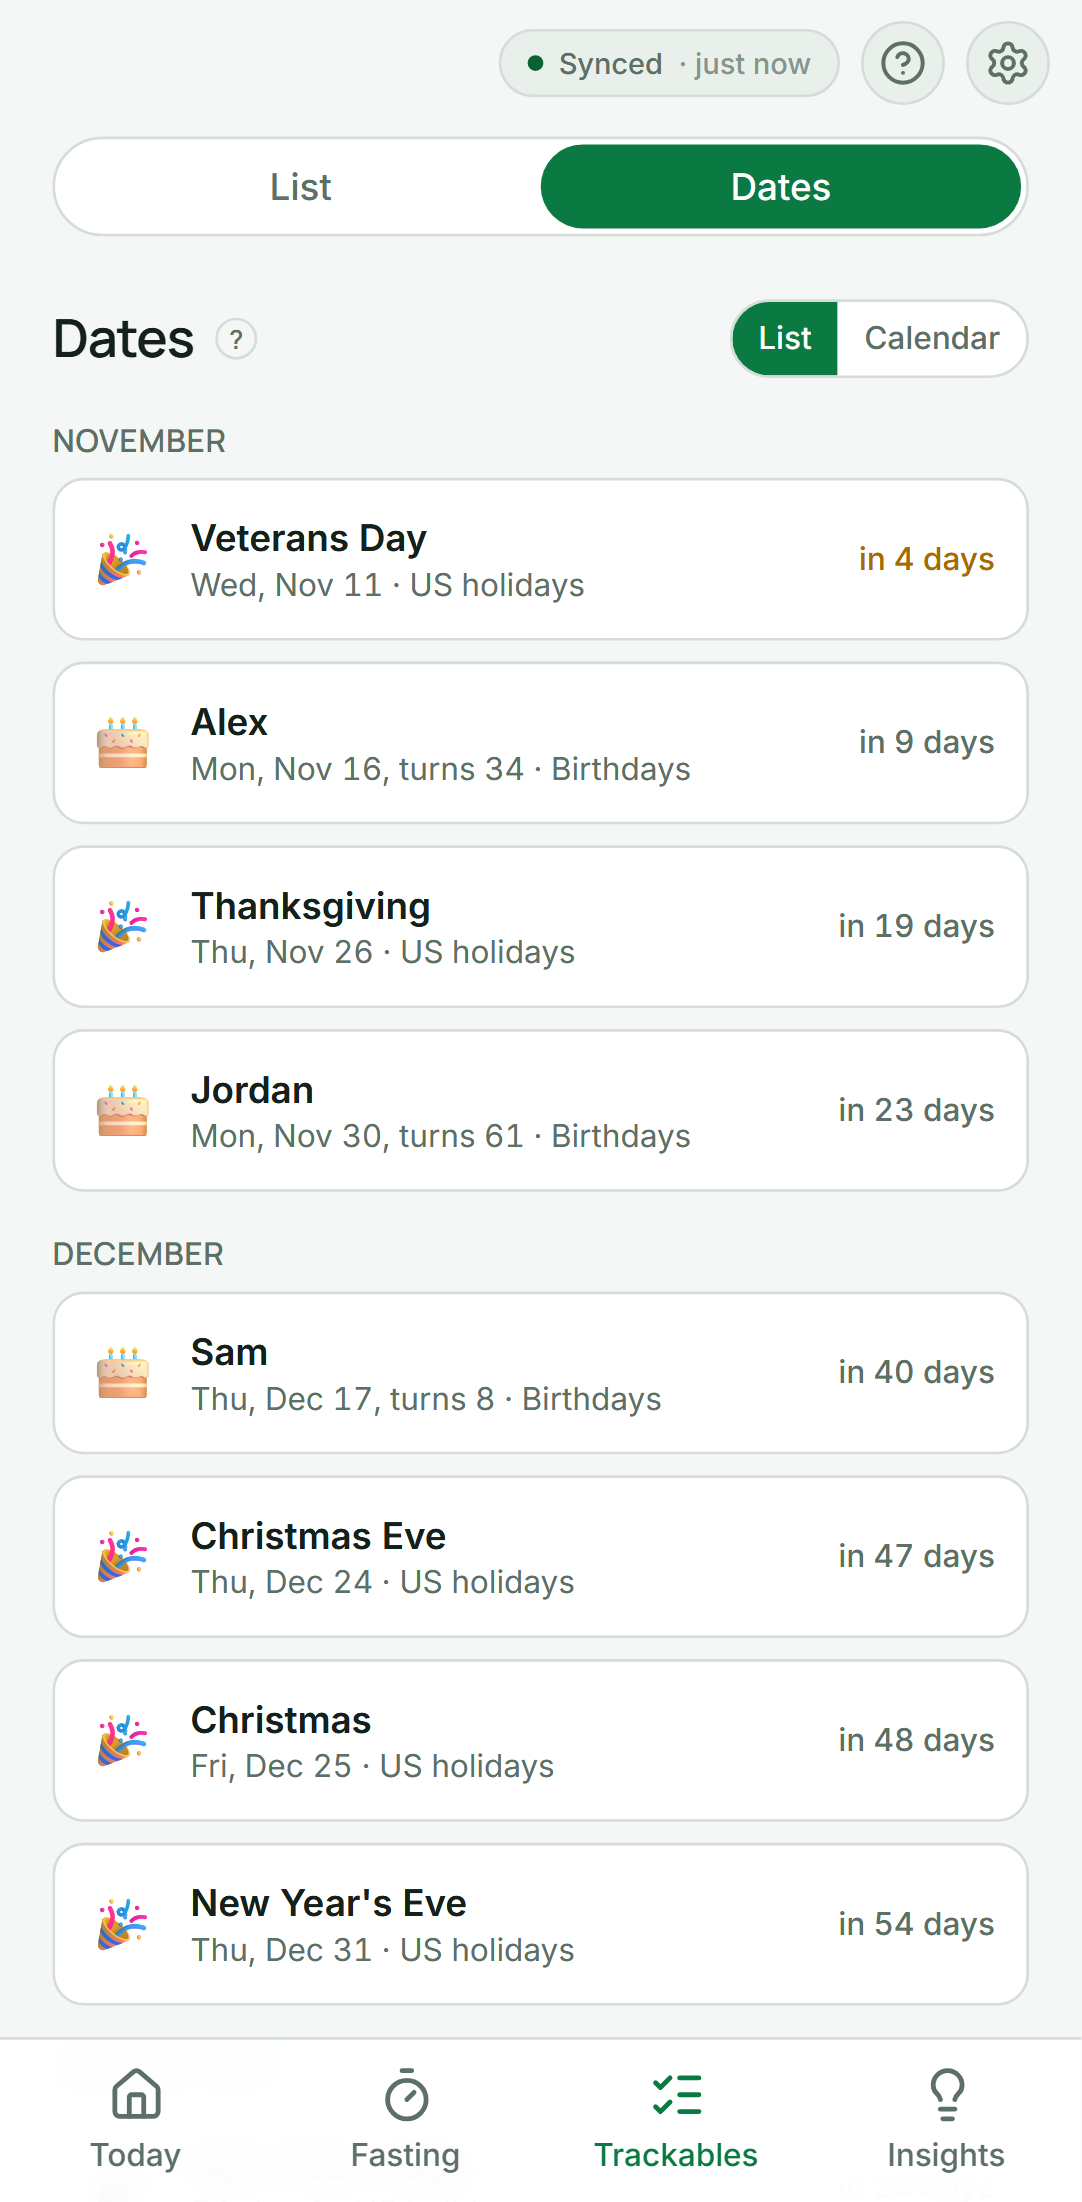
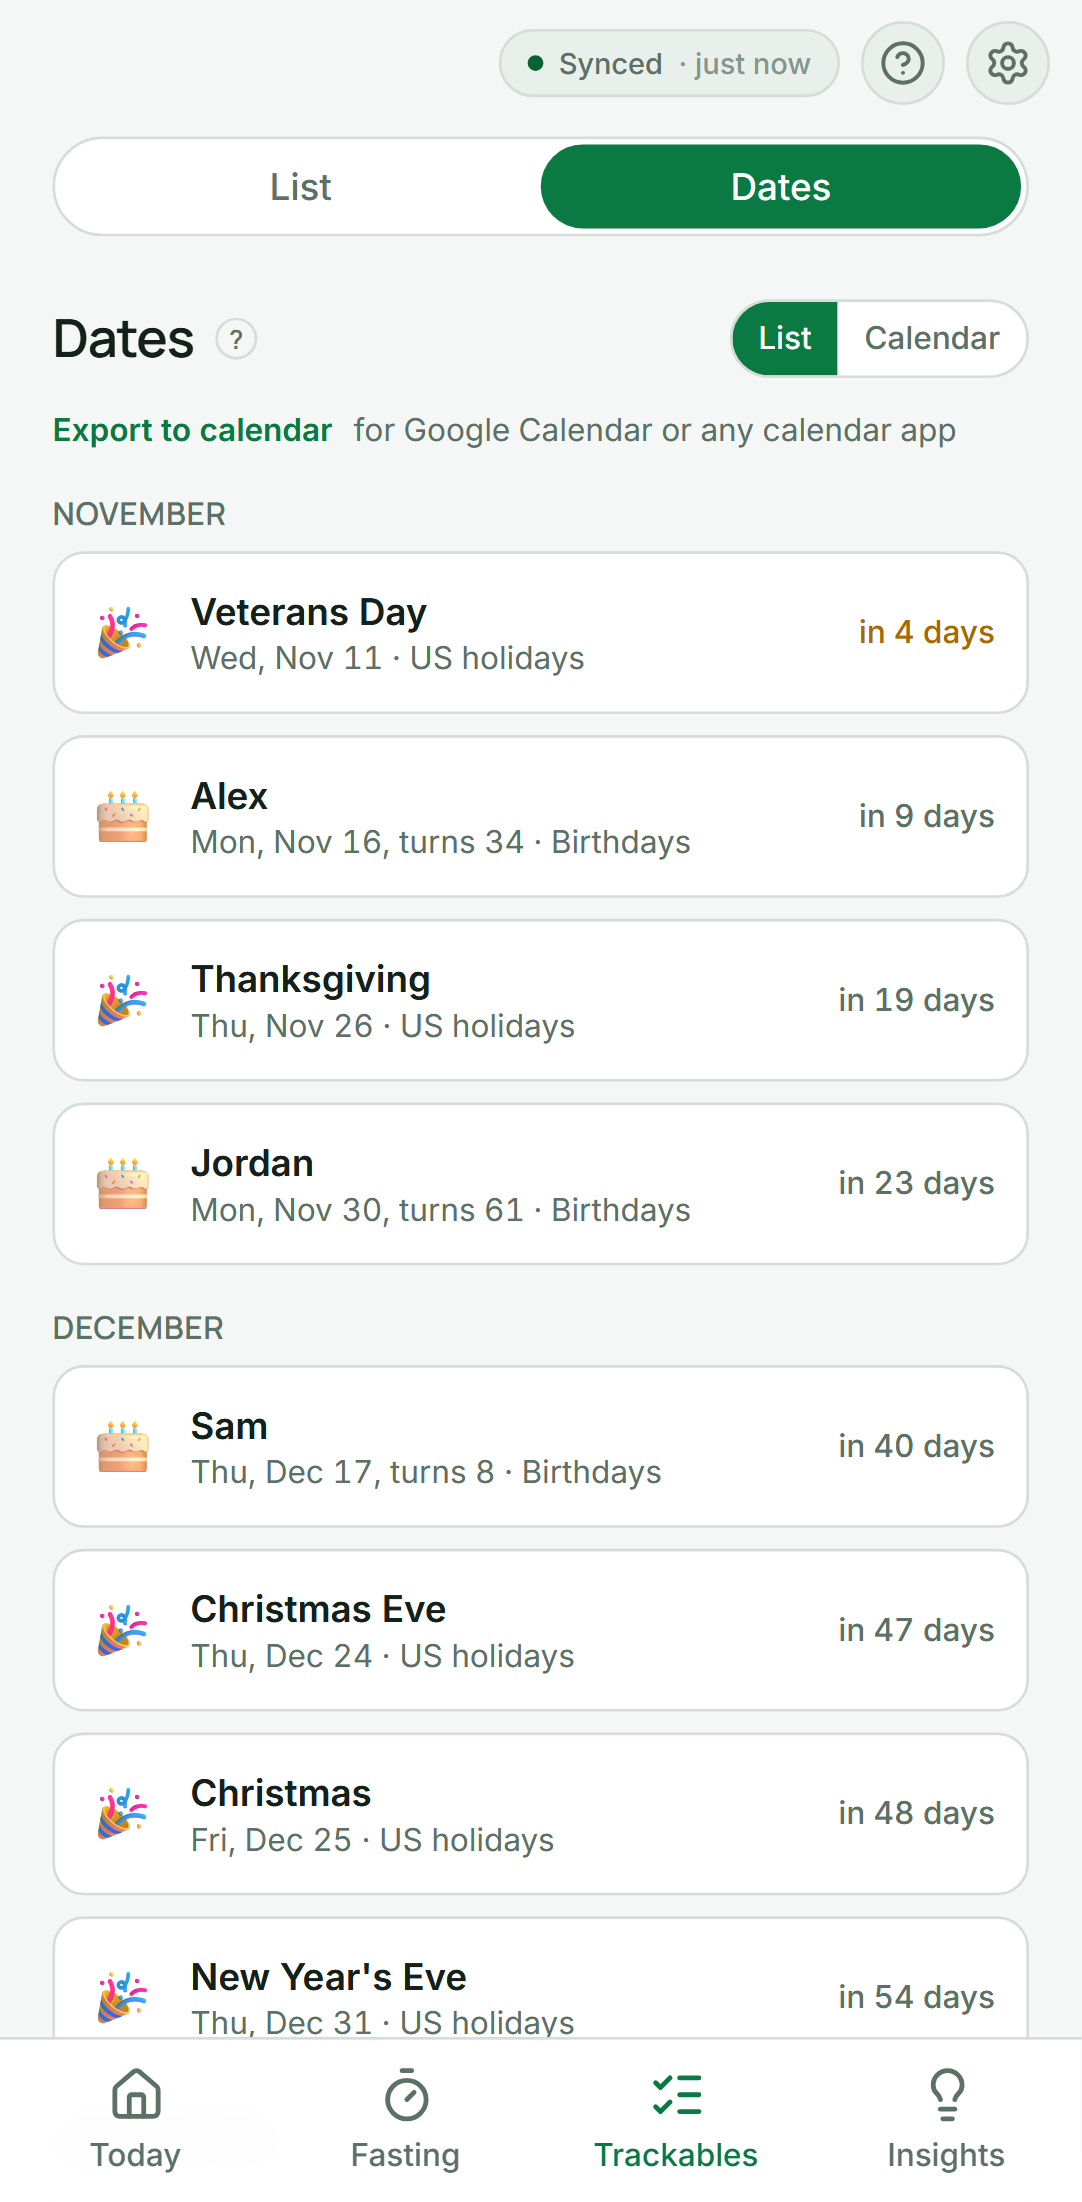
fix(today): goal suggestions as one compact card of the top three, and strength once something is logged
Four full suggestion cards pushed the habits off the first screen; one
card now lists the three most regular, with a short reason. A habit with
nothing logged no longer shows 0% strong. The fast list on History is
labelled, Export to calendar stays on one line, and the README
screenshots are recaptured.

diff --git a/e2e/app.spec.ts b/e2e/app.spec.ts
@@ -325,11 +325,11 @@ test('trackables can be pinned, archived and reordered, and lists filter by tag'
   for (const text of await rows.allTextContents()) expect(text).toContain('#gym');
   await page.goto('/#/history');
   await page.getByRole('button', { name: /^#weekend/ }).click();
-  const fastItems = page.locator('main li');
+  const fastItems = page.getByRole('list', { name: 'Fasts' }).getByRole('listitem');
   await expect(fastItems.first()).toContainText('#weekend');
   for (const text of await fastItems.allTextContents()) expect(text).toContain('#weekend');
   await page.getByRole('button', { name: 'All', exact: true }).click();
-  expect(await fastItems.count()).toBeGreaterThan(await page.locator('main li', { hasText: '#weekend' }).count());
+  expect(await fastItems.count()).toBeGreaterThan(await fastItems.filter({ hasText: '#weekend' }).count());
   expect(problems).toEqual([]);
 });
 
@@ -735,11 +735,12 @@ test('Today shows the fast, habits with a goal and recent logs, and checks a hab
   const habits = page.getByRole('region', { name: 'Habits' });
   await expect(habits).toContainText('Male Health');
   await expect(habits).toContainText('0 of 1 done');
-  await expect(habits).toContainText(/\d+% strong/);
+  // Strength shows once there's something logged: here after the check below.
   await habits.getByRole('button', { name: 'Check Male Health for today' }).click();
   await expect(page.getByRole('status')).toContainText('Logged Male Health');
   await expect(habits).toContainText('1 of 1 done');
   await expect(habits.getByRole('button', { name: 'Uncheck Male Health for today' })).toHaveAttribute('aria-pressed', 'true');
+  await expect(habits).toContainText(/\d+% strong/);
 
   // Last 7 days: one cell per day; a tap on an earlier day fills it in, a second tap takes it back.
   const week = page.getByRole('region', { name: 'Last 7 days' });
@@ -888,15 +889,18 @@ test('the Log weight shortcut opens the weigh-in sheet from the last reading, an
   await page.keyboard.press('Escape');
 
   // The sample data logs Sleep every day without a goal: Today offers one, and one tap sets it.
-  const sleep = page.getByRole('region', { name: 'Suggested goal for Sleep' });
-  await expect(sleep).toContainText(/Logged on 1[0-4] of the last 14 days/);
-  await sleep.getByRole('button', { name: 'Goal: every day' }).click();
+  const suggested = page.getByRole('region', { name: 'Suggested goals' });
+  // At most three at a time, the most regular first.
+  await expect(suggested.getByRole('listitem')).toHaveCount(3);
+  const sleep = suggested.getByRole('listitem', { name: 'Suggested goal for Sleep' });
+  await expect(sleep).toContainText(/1[0-4] of the last 14 days/);
+  await sleep.getByRole('button', { name: 'Every day' }).click();
   await expect(sleep).toHaveCount(0);
   await expect(page.getByRole('region', { name: 'Habits' }).getByRole('link', { name: /Sleep/ }).first()).toBeVisible();
 
   // Not now hides an offer on this device.
-  const nutrition = page.getByRole('region', { name: 'Suggested goal for Nutrition' });
-  await nutrition.getByRole('button', { name: 'Not now' }).click();
+  const nutrition = suggested.getByRole('listitem', { name: 'Suggested goal for Nutrition' });
+  await nutrition.getByRole('button', { name: /^Not now/ }).click();
   await expect(nutrition).toHaveCount(0);
   await page.reload();
   await expect(page.getByRole('heading', { name: 'Today', level: 1 })).toBeVisible();

diff --git a/src/lib/utils/today.ts b/src/lib/utils/today.ts
@@ -122,8 +122,10 @@ export interface GoalSuggestion {
   goalValue: number;
   /** "Once a day", "Every 3 days". */
   label: string;
-  /** "Logged on 9 of the last 14 days". */
+  /** "9 of the last 14 days": how often it was logged. */
   reason: string;
+  /** Days logged in the window, for ranking. */
+  days: number;
 }
 
 /** Days logged in the last SUGGEST_WINDOW days before a suggestion is made. */
@@ -146,21 +148,22 @@ export function suggestGoals(
     const days = [...new Set((byId.get(t.id) ?? []).filter((e) => e.timestamp <= now).map((e) => startOfDay(e.timestamp)))].sort((a, b) => a - b);
     const recent = days.filter((d) => d >= windowStart);
     if (recent.length < SUGGEST_MIN_DAYS) continue;
-    const reason = `Logged on ${recent.length} of the last ${SUGGEST_WINDOW} days`;
+    const reason = `${recent.length} of the last ${SUGGEST_WINDOW} days`;
     if (recent.length >= DAILY_DAYS) {
       out.push(
         t.fieldIds.length === 0
-          ? { trackable: t, goalType: 'perDay', goalValue: 1, label: 'Once a day', reason }
-          : { trackable: t, goalType: 'everyDays', goalValue: 1, label: 'Every day', reason },
+          ? { trackable: t, goalType: 'perDay', goalValue: 1, label: 'Once a day', reason, days: recent.length }
+          : { trackable: t, goalType: 'everyDays', goalValue: 1, label: 'Every day', reason, days: recent.length },
       );
       continue;
     }
     // The usual gap between logged days over the window, rounded: every N days.
     const gaps = recent.slice(1).map((d, i) => Math.round((d - recent[i]) / DAY_MS)).sort((a, b) => a - b);
     const n = Math.max(2, Math.min(14, gaps[Math.floor(gaps.length / 2)] ?? 2));
-    out.push({ trackable: t, goalType: 'everyDays', goalValue: n, label: `Every ${n} days`, reason });
+    out.push({ trackable: t, goalType: 'everyDays', goalValue: n, label: `Every ${n} days`, reason, days: recent.length });
   }
-  return out.sort((a, b) => a.trackable.name.localeCompare(b.trackable.name));
+  // The most regular first.
+  return out.sort((a, b) => b.days - a.days || a.trackable.name.localeCompare(b.trackable.name));
 }
 
 // ---------------------------------------------------------------------------

diff --git a/src/routes/Today.svelte b/src/routes/Today.svelte
@@ -148,15 +148,25 @@
           {/if}
         {/snippet}
       </SectionHeading>
-      {#each suggestions as s (s.trackable.id)}
-        <Card tone="brand" padding="p-3" label="Suggested goal for {s.trackable.name}">
-          <p class="text-sm text-text"><span aria-hidden="true">{s.trackable.icon}</span> Make <strong>{s.trackable.name}</strong> a habit? {s.reason}.</p>
-          <div class="mt-2 flex flex-wrap items-center gap-3">
-            <Button variant="primary" size="sm" onclick={() => adopt(s)}>Goal: {s.label.toLowerCase()}</Button>
-            <button class="text-xs text-text-muted" onclick={() => snooze(s.trackable.id)}>Not now</button>
-          </div>
+      {#if suggestions.length > 0}
+        <!-- At most three, the most regular first, so they don't push the habits themselves down. -->
+        <Card tone="brand" padding="px-3 py-2" label="Suggested goals">
+          <p class="text-xs font-semibold tracking-wide text-brand uppercase">Make these habits?</p>
+          <ul class="divide-y divide-border">
+            {#each suggestions.slice(0, 3) as s (s.trackable.id)}
+              <li class="flex items-center gap-3 py-2" aria-label="Suggested goal for {s.trackable.name}">
+                <span class="text-lg" aria-hidden="true">{s.trackable.icon}</span>
+                <span class="min-w-0 flex-1">
+                  <span class="block truncate text-sm font-medium text-text">{s.trackable.name}</span>
+                  <span class="block truncate text-xs text-text-muted">{s.reason}</span>
+                </span>
+                <Button variant="primary" size="sm" class="shrink-0 whitespace-nowrap" onclick={() => adopt(s)}>{s.label}</Button>
+                <button class="shrink-0 text-xs text-text-muted" onclick={() => snooze(s.trackable.id)} aria-label="Not now: {s.trackable.name}">Not now</button>
+              </li>
+            {/each}
+          </ul>
         </Card>
-      {/each}
+      {/if}
       {#if $trackables === undefined}
         <p class="text-sm text-text-muted">Loading&hellip;</p>
       {:else if habits.length === 0 && suggestions.length > 0}

diff --git a/src/routes/Dates.svelte b/src/routes/Dates.svelte
@@ -119,9 +119,9 @@
     <SegmentedControl options={VIEWS} bind:value={view} />
   </div>
   {#if datesTrackables.length > 0}
-    <div class="-mt-1 flex items-center gap-2 text-xs text-text-muted">
-      <button class="font-semibold text-brand" onclick={exportCalendar}>Export to calendar</button>
-      <span>An .ics file for Google Calendar or any calendar app.</span>
+    <div class="-mt-1 flex flex-wrap items-center gap-x-2 gap-y-0.5 text-xs text-text-muted">
+      <button class="whitespace-nowrap font-semibold text-brand" onclick={exportCalendar}>Export to calendar</button>
+      <span>for Google Calendar or any calendar app</span>
     </div>
   {/if}
 

diff --git a/src/lib/components/HabitRow.svelte b/src/lib/components/HabitRow.svelte
@@ -21,7 +21,8 @@
   // How established it is (utils/trackableGoals.ts habitStrength), next to the streak.
   const strength = $derived(habitStrength(t, habit.entries, habit.fields, now));
   const extras = $derived(
-    habit.offDay ? [] : [habit.goal?.streak, strength != null ? `${Math.round(strength * 100)}% strong` : undefined].filter(Boolean),
+    // Strength once there's something logged; a brand-new habit at 0% would only discourage.
+    habit.offDay ? [] : [habit.goal?.streak, strength != null && habit.entries.length > 0 ? `${Math.round(strength * 100)}% strong` : undefined].filter(Boolean),
   );
 </script>
 

diff --git a/e2e/dates.spec.ts b/e2e/dates.spec.ts
@@ -123,7 +123,7 @@ test('dates due soon go under Needs attention, the next two weeks under Coming u
   await expect(page.getByRole('link', { name: /22,000 days old/ }).first()).toBeVisible();
 
   // The calendar marks Dad's day; tapping it lists him.
-  await page.getByRole('button', { name: 'Calendar' }).click();
+  await page.getByRole('button', { name: 'Calendar', exact: true }).click();
   const dadDay = await page.evaluate(() => {
     const t = new Date();
     t.setDate(t.getDate() + 10);

diff --git a/src/routes/History.svelte b/src/routes/History.svelte
@@ -82,7 +82,7 @@
       <p class="mt-2 text-xs text-text-muted">Full: the fast met its goal. Right: goal fasts of fasts, and hours, each week. Tap a day to open its fast.</p>
     </section>
     <TagFilter items={$fasts} bind:selected={tagFilter} />
-    <ul class="flex flex-col gap-2">
+    <ul class="flex flex-col gap-2" aria-label="Fasts">
       {#each shown as fast (fast.id)}
         <li>
           <button

diff --git a/tests/today.test.ts b/tests/today.test.ts
@@ -108,7 +108,7 @@ describe('goal suggestions', () => {
       ['check', 'perDay', 1, 'Once a day'],
       ['weigh', 'everyDays', 2, 'Every 2 days'],
     ]);
-    expect(s[0].reason).toBe('Logged on 12 of the last 14 days');
+    expect(s[0].reason).toBe('12 of the last 14 days');
   });
 
   it('leaves out rare ones, ones with a goal, dates and archived ones', () => {
